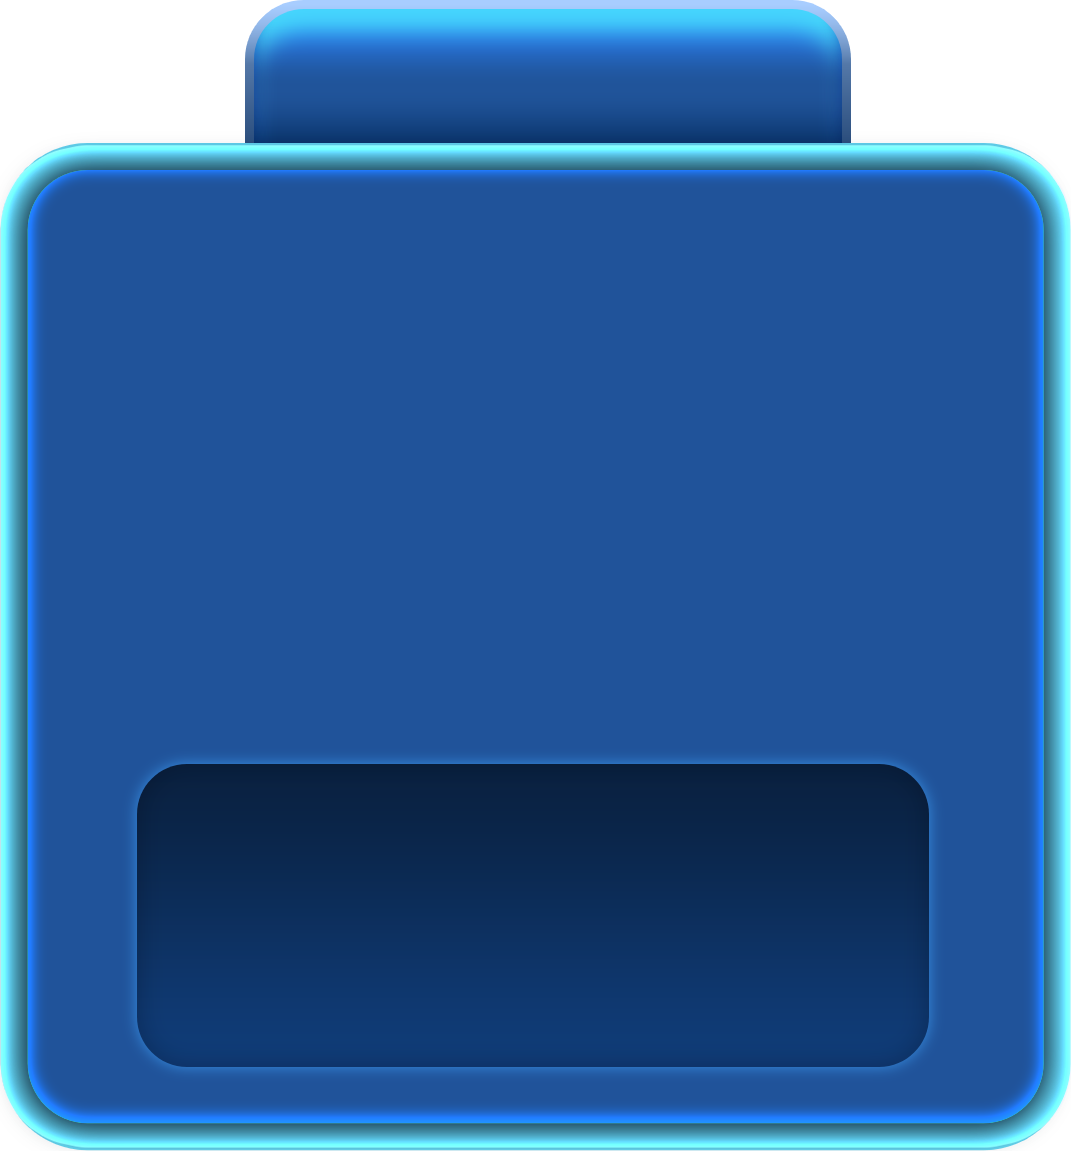
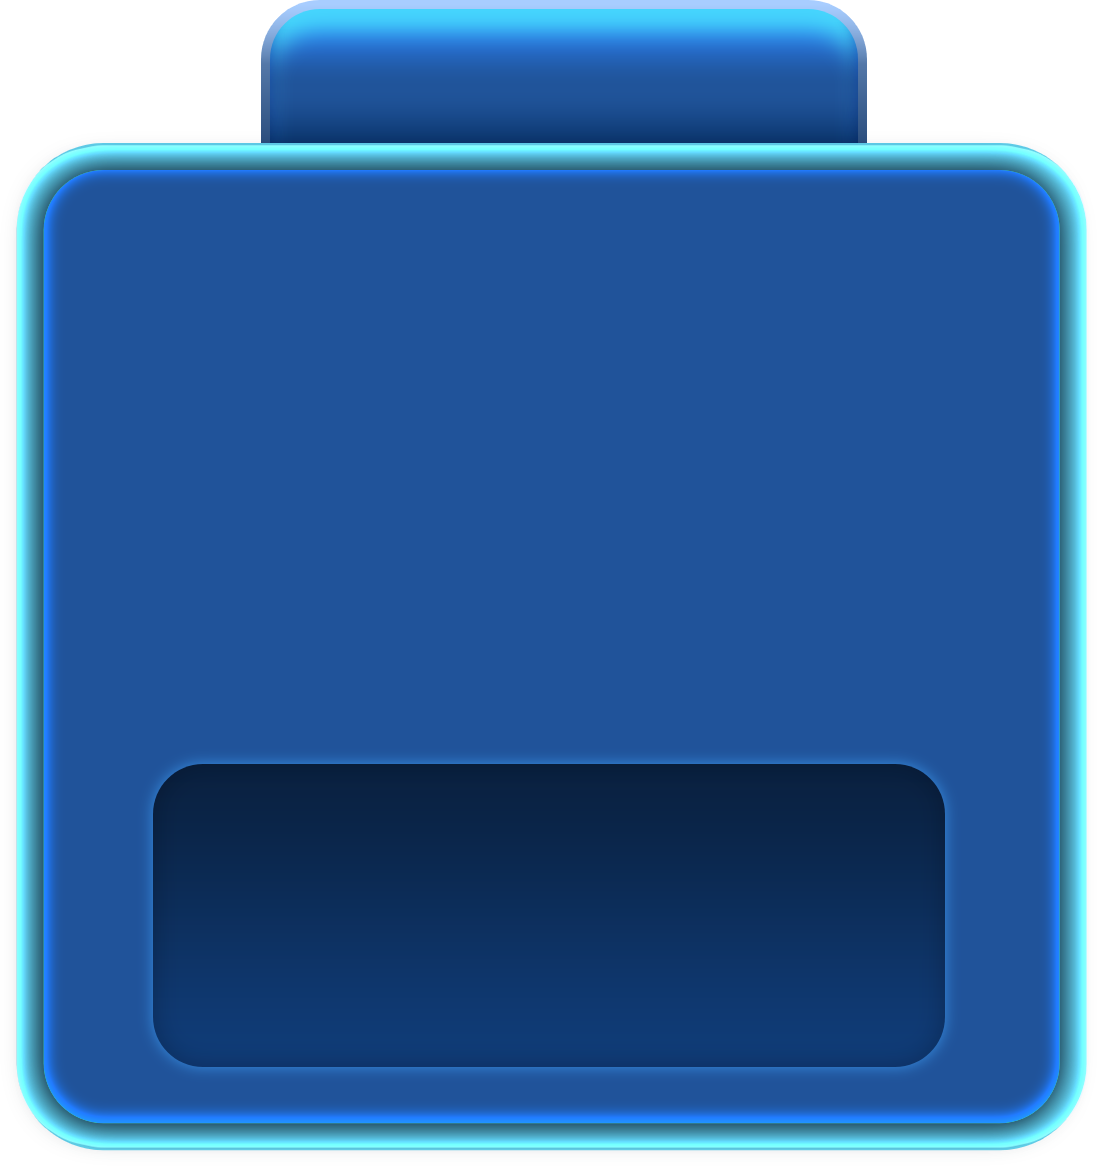
UI/Screen. Добавлена заливка фона цветом

Changed region(s): [[0.0, 0.0, 1.0, 1.0]]

diff --git a/src/scripts/index.js b/src/scripts/index.js
@@ -47,7 +47,7 @@ let tile_template = undefined;  // Будущий образец тайла
 let sprites = undefined;        // Будущий массив со спрайтами тайлов
 
 // Создаём экран отрисовки, получаем контекст
-const screen = new Screen(holder, screenWidth, screenHeight);
+const screen = new Screen(holder, screenWidth, screenHeight, '#036');
 const ctx = screen.getContext();
 
 const grid = new Grid(ctx, cellsX, cellsY);
